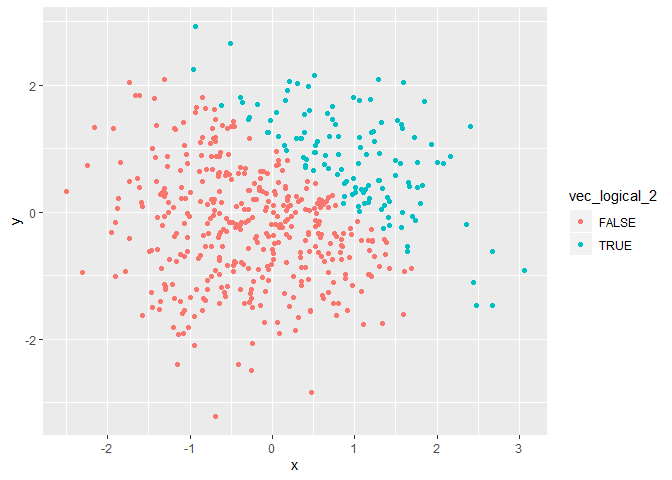
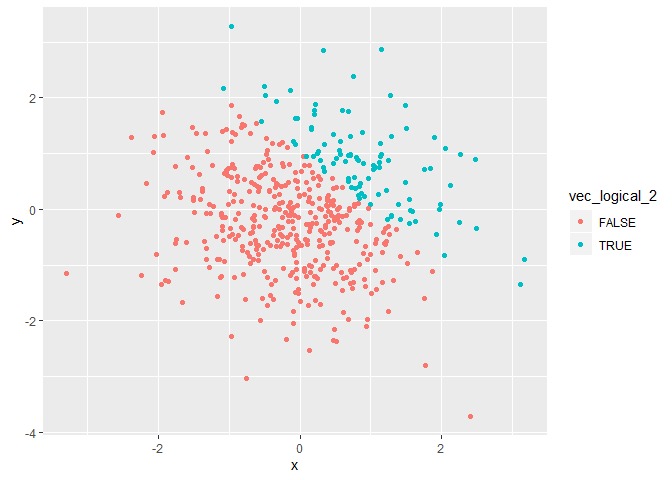
this is commit all 9/17/19

diff --git a/p8105_hw1_mss2284.md b/p8105_hw1_mss2284.md
@@ -28,32 +28,32 @@ problem1_df = tibble(
   vec_factor = factor(c("1", "2", "3", "3", "2", "1", "1", "2")),
 )
 
-mean(problem1_df$norm_samp)
+mean(pull(problem1_df, norm_samp))
 ```
 
-    ## [1] -0.2873572
+    ## [1] -0.2295564
 
 ``` r
-mean(problem1_df$vec_logical)
+mean(pull(problem1_df, vec_logical))
 ```
 
     ## [1] 0.375
 
 ``` r
-mean(problem1_df$vec_char)
+mean(pull(problem1_df, vec_char))
 ```
 
-    ## Warning in mean.default(problem1_df$vec_char): argument is not numeric or
-    ## logical: returning NA
+    ## Warning in mean.default(pull(problem1_df, vec_char)): argument is not
+    ## numeric or logical: returning NA
 
     ## [1] NA
 
 ``` r
-mean(problem1_df$vec_factor)
+mean(pull(problem1_df, vec_factor))
 ```
 
-    ## Warning in mean.default(problem1_df$vec_factor): argument is not numeric or
-    ## logical: returning NA
+    ## Warning in mean.default(pull(problem1_df, vec_factor)): argument is not
+    ## numeric or logical: returning NA
 
     ## [1] NA
 
@@ -65,30 +65,27 @@ Converting the variables to numeric:
 ``` r
 eval = FALSE
 
-as.numeric(problem1_df$vec_logical)*(problem1_df$norm_samp)
+as.numeric(pull(problem1_df, vec_logical))*(pull(problem1_df, norm_samp))
 ```
 
-    ## [1] 0.0000000 1.0924021 0.0000000 0.0000000 0.5393216 1.3154086 0.0000000
+    ## [1] 0.0000000 1.4769166 0.0000000 0.4214371 0.0000000 0.3016015 0.0000000
     ## [8] 0.0000000
 
 ``` r
-as.factor(problem1_df$vec_logical)*(problem1_df$norm_samp)
+as.factor(pull(problem1_df, vec_logical))*(pull(problem1_df, norm_samp))
 ```
 
-    ## Warning in Ops.factor(as.factor(problem1_df$vec_logical),
-    ## (problem1_df$norm_samp)): '*' not meaningful for factors
+    ## Warning in Ops.factor(as.factor(pull(problem1_df, vec_logical)),
+    ## (pull(problem1_df, : '*' not meaningful for factors
 
     ## [1] NA NA NA NA NA NA NA NA
 
 ``` r
-as.numeric(as.factor(problem1_df$vec_logical))*(problem1_df$norm_samp)
+as.numeric(as.factor(pull(problem1_df, vec_logical)))*(pull(problem1_df, norm_samp))
 ```
 
-    ## [1] -0.1772067  2.1848043 -0.7074946 -2.3884131  1.0786433  2.6308173
-    ## [7] -1.2597586 -0.7131174
-
-NOTE: check about multipying factor version of logical vector to random
-sample
+    ## [1] -1.8836281  2.9538332 -0.3342088  0.8428741 -0.4628954  0.6032030
+    ## [7] -0.5224313 -0.8332424
 
 ## Problem 2
 
@@ -100,84 +97,85 @@ problem2_df = tibble(
   vector_sum = x + y,
   )
 
-as.numeric(problem2_df$vec_logical_2)
+as.numeric(pull(problem2_df, vec_logical_2))
 ```
 
-    ##   [1] 0 0 1 0 0 0 0 0 0 0 1 0 0 0 0 0 1 0 0 0 1 1 0 1 0 0 1 1 0 1 0 0 0 0 0
-    ##  [36] 0 0 1 1 0 0 1 0 0 0 0 0 0 0 0 0 0 0 0 0 0 0 1 0 0 0 1 0 0 0 0 0 1 0 0
-    ##  [71] 0 1 1 0 1 0 0 0 0 0 0 1 1 0 0 0 0 1 1 0 0 0 0 1 0 1 0 0 0 0 0 1 0 0 0
-    ## [106] 0 0 0 0 0 0 0 1 0 0 0 0 0 1 1 0 0 0 0 0 0 0 0 1 0 1 1 0 0 0 1 0 0 1 0
-    ## [141] 1 0 1 0 0 1 1 0 0 0 1 0 0 0 1 1 0 0 0 0 0 0 0 0 0 0 1 0 0 1 0 1 0 1 0
-    ## [176] 0 0 0 0 1 0 0 0 0 0 1 0 0 0 0 0 0 0 1 0 1 0 1 0 1 1 1 0 0 0 0 0 0 0 0
-    ## [211] 0 1 0 0 0 0 0 0 0 0 0 1 0 1 0 0 0 0 1 0 0 0 0 0 1 1 0 0 0 0 0 0 0 1 1
-    ## [246] 0 0 0 0 0 0 0 1 0 0 0 0 0 0 0 1 0 0 1 0 0 1 1 0 0 0 1 0 1 0 0 0 0 0 0
-    ## [281] 0 0 0 0 1 0 1 0 1 0 0 0 1 0 1 1 1 0 0 0 0 0 0 0 0 0 1 0 0 0 0 0 1 0 0
-    ## [316] 0 0 0 0 0 0 0 0 0 0 0 0 0 1 1 1 0 0 0 0 0 1 0 0 0 0 0 0 0 0 1 1 0 1 1
-    ## [351] 1 1 1 1 0 0 0 1 0 1 0 0 0 0 0 1 0 0 1 0 1 0 0 0 0 0 0 0 1 0 0 0 0 0 1
-    ## [386] 0 1 0 0 0 0 0 0 1 0 1 0 1 1 0 0 0 1 0 0 0 0 0 0 1 0 0 1 0 0 0 1 1 0 0
-    ## [421] 0 0 0 1 0 0 0 0 0 0 0 0 0 0 0 0 0 0 0 0 0 1 1 0 0 0 0 0 1 0 1 0 0 1 1
-    ## [456] 0 0 0 0 0 1 0 0 1 0 0 0 0 0 0 0 0 0 0 0 0 0 0 0 0 0 0 1 0 1 0 0 0 0 0
-    ## [491] 0 0 0 1 1 1 1 0 0 1
+    ##   [1] 0 0 0 0 0 0 0 0 0 0 1 0 0 0 0 0 0 0 0 0 1 0 1 1 0 0 0 1 0 0 0 0 0 1 0
+    ##  [36] 0 0 1 0 0 0 0 1 0 0 0 0 0 0 0 0 0 0 0 0 0 0 0 1 1 1 0 0 0 1 0 0 0 0 0
+    ##  [71] 1 0 0 0 0 1 1 0 0 0 0 0 0 0 0 1 0 0 0 0 1 0 1 0 0 0 0 0 0 1 0 0 0 0 1
+    ## [106] 0 1 0 0 0 0 0 0 1 0 0 0 1 0 0 1 0 0 0 0 1 0 0 0 0 0 0 0 0 0 0 0 1 0 1
+    ## [141] 0 0 0 0 0 0 0 1 0 1 0 1 0 1 1 0 0 0 0 0 0 0 0 0 0 1 0 0 0 0 0 1 0 0 1
+    ## [176] 0 0 0 0 0 0 0 0 0 0 0 0 0 0 0 1 0 1 0 0 0 1 0 0 0 0 0 0 0 1 1 0 0 1 1
+    ## [211] 0 1 0 0 0 0 0 0 1 0 0 0 1 0 0 0 1 0 0 1 0 0 0 1 0 0 0 0 0 1 0 0 1 0 0
+    ## [246] 0 0 1 0 0 0 1 0 0 0 0 0 0 0 1 0 0 0 0 0 0 0 0 0 0 0 0 1 0 0 0 1 0 0 1
+    ## [281] 1 1 0 0 0 0 1 1 1 0 0 1 0 0 0 0 0 0 0 0 0 1 0 0 0 0 1 0 1 0 0 0 0 0 0
+    ## [316] 0 0 0 1 0 1 0 0 0 0 0 0 0 1 0 0 0 1 0 0 0 0 0 0 1 0 0 0 0 0 0 0 0 0 0
+    ## [351] 0 0 1 0 1 1 1 0 0 1 0 0 0 0 0 0 1 0 0 0 0 0 0 0 1 1 0 0 0 0 0 1 0 0 0
+    ## [386] 0 0 0 1 0 0 0 0 0 0 0 1 0 0 1 0 0 1 0 0 0 1 0 0 0 0 1 0 0 0 0 1 0 0 0
+    ## [421] 0 0 0 0 0 0 0 0 0 0 0 0 1 0 0 0 0 0 0 0 1 0 0 0 0 0 0 0 0 0 0 0 0 0 0
+    ## [456] 1 0 0 1 0 0 1 0 0 1 0 1 0 0 0 0 0 0 0 0 0 1 1 0 0 1 0 1 0 0 1 0 0 0 1
+    ## [491] 1 0 0 0 0 0 0 0 0 0
 
 ``` r
-as.factor(problem2_df$vec_logical_2)
+as.factor(pull(problem2_df, vec_logical_2))
 ```
 
-    ##   [1] FALSE FALSE TRUE  FALSE FALSE FALSE FALSE FALSE FALSE FALSE TRUE 
-    ##  [12] FALSE FALSE FALSE FALSE FALSE TRUE  FALSE FALSE FALSE TRUE  TRUE 
-    ##  [23] FALSE TRUE  FALSE FALSE TRUE  TRUE  FALSE TRUE  FALSE FALSE FALSE
-    ##  [34] FALSE FALSE FALSE FALSE TRUE  TRUE  FALSE FALSE TRUE  FALSE FALSE
+    ##   [1] FALSE FALSE FALSE FALSE FALSE FALSE FALSE FALSE FALSE FALSE TRUE 
+    ##  [12] FALSE FALSE FALSE FALSE FALSE FALSE FALSE FALSE FALSE TRUE  FALSE
+    ##  [23] TRUE  TRUE  FALSE FALSE FALSE TRUE  FALSE FALSE FALSE FALSE FALSE
+    ##  [34] TRUE  FALSE FALSE FALSE TRUE  FALSE FALSE FALSE FALSE TRUE  FALSE
     ##  [45] FALSE FALSE FALSE FALSE FALSE FALSE FALSE FALSE FALSE FALSE FALSE
-    ##  [56] FALSE FALSE TRUE  FALSE FALSE FALSE TRUE  FALSE FALSE FALSE FALSE
-    ##  [67] FALSE TRUE  FALSE FALSE FALSE TRUE  TRUE  FALSE TRUE  FALSE FALSE
-    ##  [78] FALSE FALSE FALSE FALSE TRUE  TRUE  FALSE FALSE FALSE FALSE TRUE 
-    ##  [89] TRUE  FALSE FALSE FALSE FALSE TRUE  FALSE TRUE  FALSE FALSE FALSE
-    ## [100] FALSE FALSE TRUE  FALSE FALSE FALSE FALSE FALSE FALSE FALSE FALSE
-    ## [111] FALSE FALSE TRUE  FALSE FALSE FALSE FALSE FALSE TRUE  TRUE  FALSE
-    ## [122] FALSE FALSE FALSE FALSE FALSE FALSE FALSE TRUE  FALSE TRUE  TRUE 
-    ## [133] FALSE FALSE FALSE TRUE  FALSE FALSE TRUE  FALSE TRUE  FALSE TRUE 
-    ## [144] FALSE FALSE TRUE  TRUE  FALSE FALSE FALSE TRUE  FALSE FALSE FALSE
-    ## [155] TRUE  TRUE  FALSE FALSE FALSE FALSE FALSE FALSE FALSE FALSE FALSE
-    ## [166] FALSE TRUE  FALSE FALSE TRUE  FALSE TRUE  FALSE TRUE  FALSE FALSE
-    ## [177] FALSE FALSE FALSE TRUE  FALSE FALSE FALSE FALSE FALSE TRUE  FALSE
-    ## [188] FALSE FALSE FALSE FALSE FALSE FALSE TRUE  FALSE TRUE  FALSE TRUE 
-    ## [199] FALSE TRUE  TRUE  TRUE  FALSE FALSE FALSE FALSE FALSE FALSE FALSE
-    ## [210] FALSE FALSE TRUE  FALSE FALSE FALSE FALSE FALSE FALSE FALSE FALSE
-    ## [221] FALSE TRUE  FALSE TRUE  FALSE FALSE FALSE FALSE TRUE  FALSE FALSE
-    ## [232] FALSE FALSE FALSE TRUE  TRUE  FALSE FALSE FALSE FALSE FALSE FALSE
-    ## [243] FALSE TRUE  TRUE  FALSE FALSE FALSE FALSE FALSE FALSE FALSE TRUE 
-    ## [254] FALSE FALSE FALSE FALSE FALSE FALSE FALSE TRUE  FALSE FALSE TRUE 
-    ## [265] FALSE FALSE TRUE  TRUE  FALSE FALSE FALSE TRUE  FALSE TRUE  FALSE
-    ## [276] FALSE FALSE FALSE FALSE FALSE FALSE FALSE FALSE FALSE TRUE  FALSE
-    ## [287] TRUE  FALSE TRUE  FALSE FALSE FALSE TRUE  FALSE TRUE  TRUE  TRUE 
-    ## [298] FALSE FALSE FALSE FALSE FALSE FALSE FALSE FALSE FALSE TRUE  FALSE
-    ## [309] FALSE FALSE FALSE FALSE TRUE  FALSE FALSE FALSE FALSE FALSE FALSE
-    ## [320] FALSE FALSE FALSE FALSE FALSE FALSE FALSE FALSE FALSE TRUE  TRUE 
-    ## [331] TRUE  FALSE FALSE FALSE FALSE FALSE TRUE  FALSE FALSE FALSE FALSE
-    ## [342] FALSE FALSE FALSE FALSE TRUE  TRUE  FALSE TRUE  TRUE  TRUE  TRUE 
-    ## [353] TRUE  TRUE  FALSE FALSE FALSE TRUE  FALSE TRUE  FALSE FALSE FALSE
-    ## [364] FALSE FALSE TRUE  FALSE FALSE TRUE  FALSE TRUE  FALSE FALSE FALSE
-    ## [375] FALSE FALSE FALSE FALSE TRUE  FALSE FALSE FALSE FALSE FALSE TRUE 
-    ## [386] FALSE TRUE  FALSE FALSE FALSE FALSE FALSE FALSE TRUE  FALSE TRUE 
-    ## [397] FALSE TRUE  TRUE  FALSE FALSE FALSE TRUE  FALSE FALSE FALSE FALSE
-    ## [408] FALSE FALSE TRUE  FALSE FALSE TRUE  FALSE FALSE FALSE TRUE  TRUE 
-    ## [419] FALSE FALSE FALSE FALSE FALSE TRUE  FALSE FALSE FALSE FALSE FALSE
-    ## [430] FALSE FALSE FALSE FALSE FALSE FALSE FALSE FALSE FALSE FALSE FALSE
-    ## [441] FALSE TRUE  TRUE  FALSE FALSE FALSE FALSE FALSE TRUE  FALSE TRUE 
-    ## [452] FALSE FALSE TRUE  TRUE  FALSE FALSE FALSE FALSE FALSE TRUE  FALSE
-    ## [463] FALSE TRUE  FALSE FALSE FALSE FALSE FALSE FALSE FALSE FALSE FALSE
-    ## [474] FALSE FALSE FALSE FALSE FALSE FALSE FALSE FALSE FALSE TRUE  FALSE
-    ## [485] TRUE  FALSE FALSE FALSE FALSE FALSE FALSE FALSE FALSE TRUE  TRUE 
-    ## [496] TRUE  TRUE  FALSE FALSE TRUE 
+    ##  [56] FALSE FALSE FALSE TRUE  TRUE  TRUE  FALSE FALSE FALSE TRUE  FALSE
+    ##  [67] FALSE FALSE FALSE FALSE TRUE  FALSE FALSE FALSE FALSE TRUE  TRUE 
+    ##  [78] FALSE FALSE FALSE FALSE FALSE FALSE FALSE FALSE TRUE  FALSE FALSE
+    ##  [89] FALSE FALSE TRUE  FALSE TRUE  FALSE FALSE FALSE FALSE FALSE FALSE
+    ## [100] TRUE  FALSE FALSE FALSE FALSE TRUE  FALSE TRUE  FALSE FALSE FALSE
+    ## [111] FALSE FALSE FALSE TRUE  FALSE FALSE FALSE TRUE  FALSE FALSE TRUE 
+    ## [122] FALSE FALSE FALSE FALSE TRUE  FALSE FALSE FALSE FALSE FALSE FALSE
+    ## [133] FALSE FALSE FALSE FALSE FALSE TRUE  FALSE TRUE  FALSE FALSE FALSE
+    ## [144] FALSE FALSE FALSE FALSE TRUE  FALSE TRUE  FALSE TRUE  FALSE TRUE 
+    ## [155] TRUE  FALSE FALSE FALSE FALSE FALSE FALSE FALSE FALSE FALSE FALSE
+    ## [166] TRUE  FALSE FALSE FALSE FALSE FALSE TRUE  FALSE FALSE TRUE  FALSE
+    ## [177] FALSE FALSE FALSE FALSE FALSE FALSE FALSE FALSE FALSE FALSE FALSE
+    ## [188] FALSE FALSE FALSE TRUE  FALSE TRUE  FALSE FALSE FALSE TRUE  FALSE
+    ## [199] FALSE FALSE FALSE FALSE FALSE FALSE TRUE  TRUE  FALSE FALSE TRUE 
+    ## [210] TRUE  FALSE TRUE  FALSE FALSE FALSE FALSE FALSE FALSE TRUE  FALSE
+    ## [221] FALSE FALSE TRUE  FALSE FALSE FALSE TRUE  FALSE FALSE TRUE  FALSE
+    ## [232] FALSE FALSE TRUE  FALSE FALSE FALSE FALSE FALSE TRUE  FALSE FALSE
+    ## [243] TRUE  FALSE FALSE FALSE FALSE TRUE  FALSE FALSE FALSE TRUE  FALSE
+    ## [254] FALSE FALSE FALSE FALSE FALSE FALSE TRUE  FALSE FALSE FALSE FALSE
+    ## [265] FALSE FALSE FALSE FALSE FALSE FALSE FALSE FALSE TRUE  FALSE FALSE
+    ## [276] FALSE TRUE  FALSE FALSE TRUE  TRUE  TRUE  FALSE FALSE FALSE FALSE
+    ## [287] TRUE  TRUE  TRUE  FALSE FALSE TRUE  FALSE FALSE FALSE FALSE FALSE
+    ## [298] FALSE FALSE FALSE FALSE TRUE  FALSE FALSE FALSE FALSE TRUE  FALSE
+    ## [309] TRUE  FALSE FALSE FALSE FALSE FALSE FALSE FALSE FALSE FALSE TRUE 
+    ## [320] FALSE TRUE  FALSE FALSE FALSE FALSE FALSE FALSE FALSE TRUE  FALSE
+    ## [331] FALSE FALSE TRUE  FALSE FALSE FALSE FALSE FALSE FALSE TRUE  FALSE
+    ## [342] FALSE FALSE FALSE FALSE FALSE FALSE FALSE FALSE FALSE FALSE FALSE
+    ## [353] TRUE  FALSE TRUE  TRUE  TRUE  FALSE FALSE TRUE  FALSE FALSE FALSE
+    ## [364] FALSE FALSE FALSE TRUE  FALSE FALSE FALSE FALSE FALSE FALSE FALSE
+    ## [375] TRUE  TRUE  FALSE FALSE FALSE FALSE FALSE TRUE  FALSE FALSE FALSE
+    ## [386] FALSE FALSE FALSE TRUE  FALSE FALSE FALSE FALSE FALSE FALSE FALSE
+    ## [397] TRUE  FALSE FALSE TRUE  FALSE FALSE TRUE  FALSE FALSE FALSE TRUE 
+    ## [408] FALSE FALSE FALSE FALSE TRUE  FALSE FALSE FALSE FALSE TRUE  FALSE
+    ## [419] FALSE FALSE FALSE FALSE FALSE FALSE FALSE FALSE FALSE FALSE FALSE
+    ## [430] FALSE FALSE FALSE TRUE  FALSE FALSE FALSE FALSE FALSE FALSE FALSE
+    ## [441] TRUE  FALSE FALSE FALSE FALSE FALSE FALSE FALSE FALSE FALSE FALSE
+    ## [452] FALSE FALSE FALSE FALSE TRUE  FALSE FALSE TRUE  FALSE FALSE TRUE 
+    ## [463] FALSE FALSE TRUE  FALSE TRUE  FALSE FALSE FALSE FALSE FALSE FALSE
+    ## [474] FALSE FALSE FALSE TRUE  TRUE  FALSE FALSE TRUE  FALSE TRUE  FALSE
+    ## [485] FALSE TRUE  FALSE FALSE FALSE TRUE  TRUE  FALSE FALSE FALSE FALSE
+    ## [496] FALSE FALSE FALSE FALSE FALSE
     ## Levels: FALSE TRUE
 
-\*The dataset has a number of rows500, and number of columns 4.
+The dataset has a number of rows, and number of columns .
 
-The mean of the variable x is 0.0108367. The median of the variable x is
--0.0037777. The standard deviation of the variable x is 0.9757989.
+The mean of the variable x is 0.0081961. The median of the variable x is
+-1.421696510^{-4}. The standard deviation of the variable x is
+0.9421098.
 
 The proportion of cases for which x + y is greater than one is
-0.9002683.
+-3.5292604.
 
 Scatterplot
 
@@ -212,7 +210,7 @@ ggsave
     ##     grid.draw(plot)
     ##     invisible()
     ## }
-    ## <bytecode: 0x00000000158ee458>
+    ## <bytecode: 0x00000000137d45d0>
     ## <environment: namespace:ggplot2>
 
 ``` r
